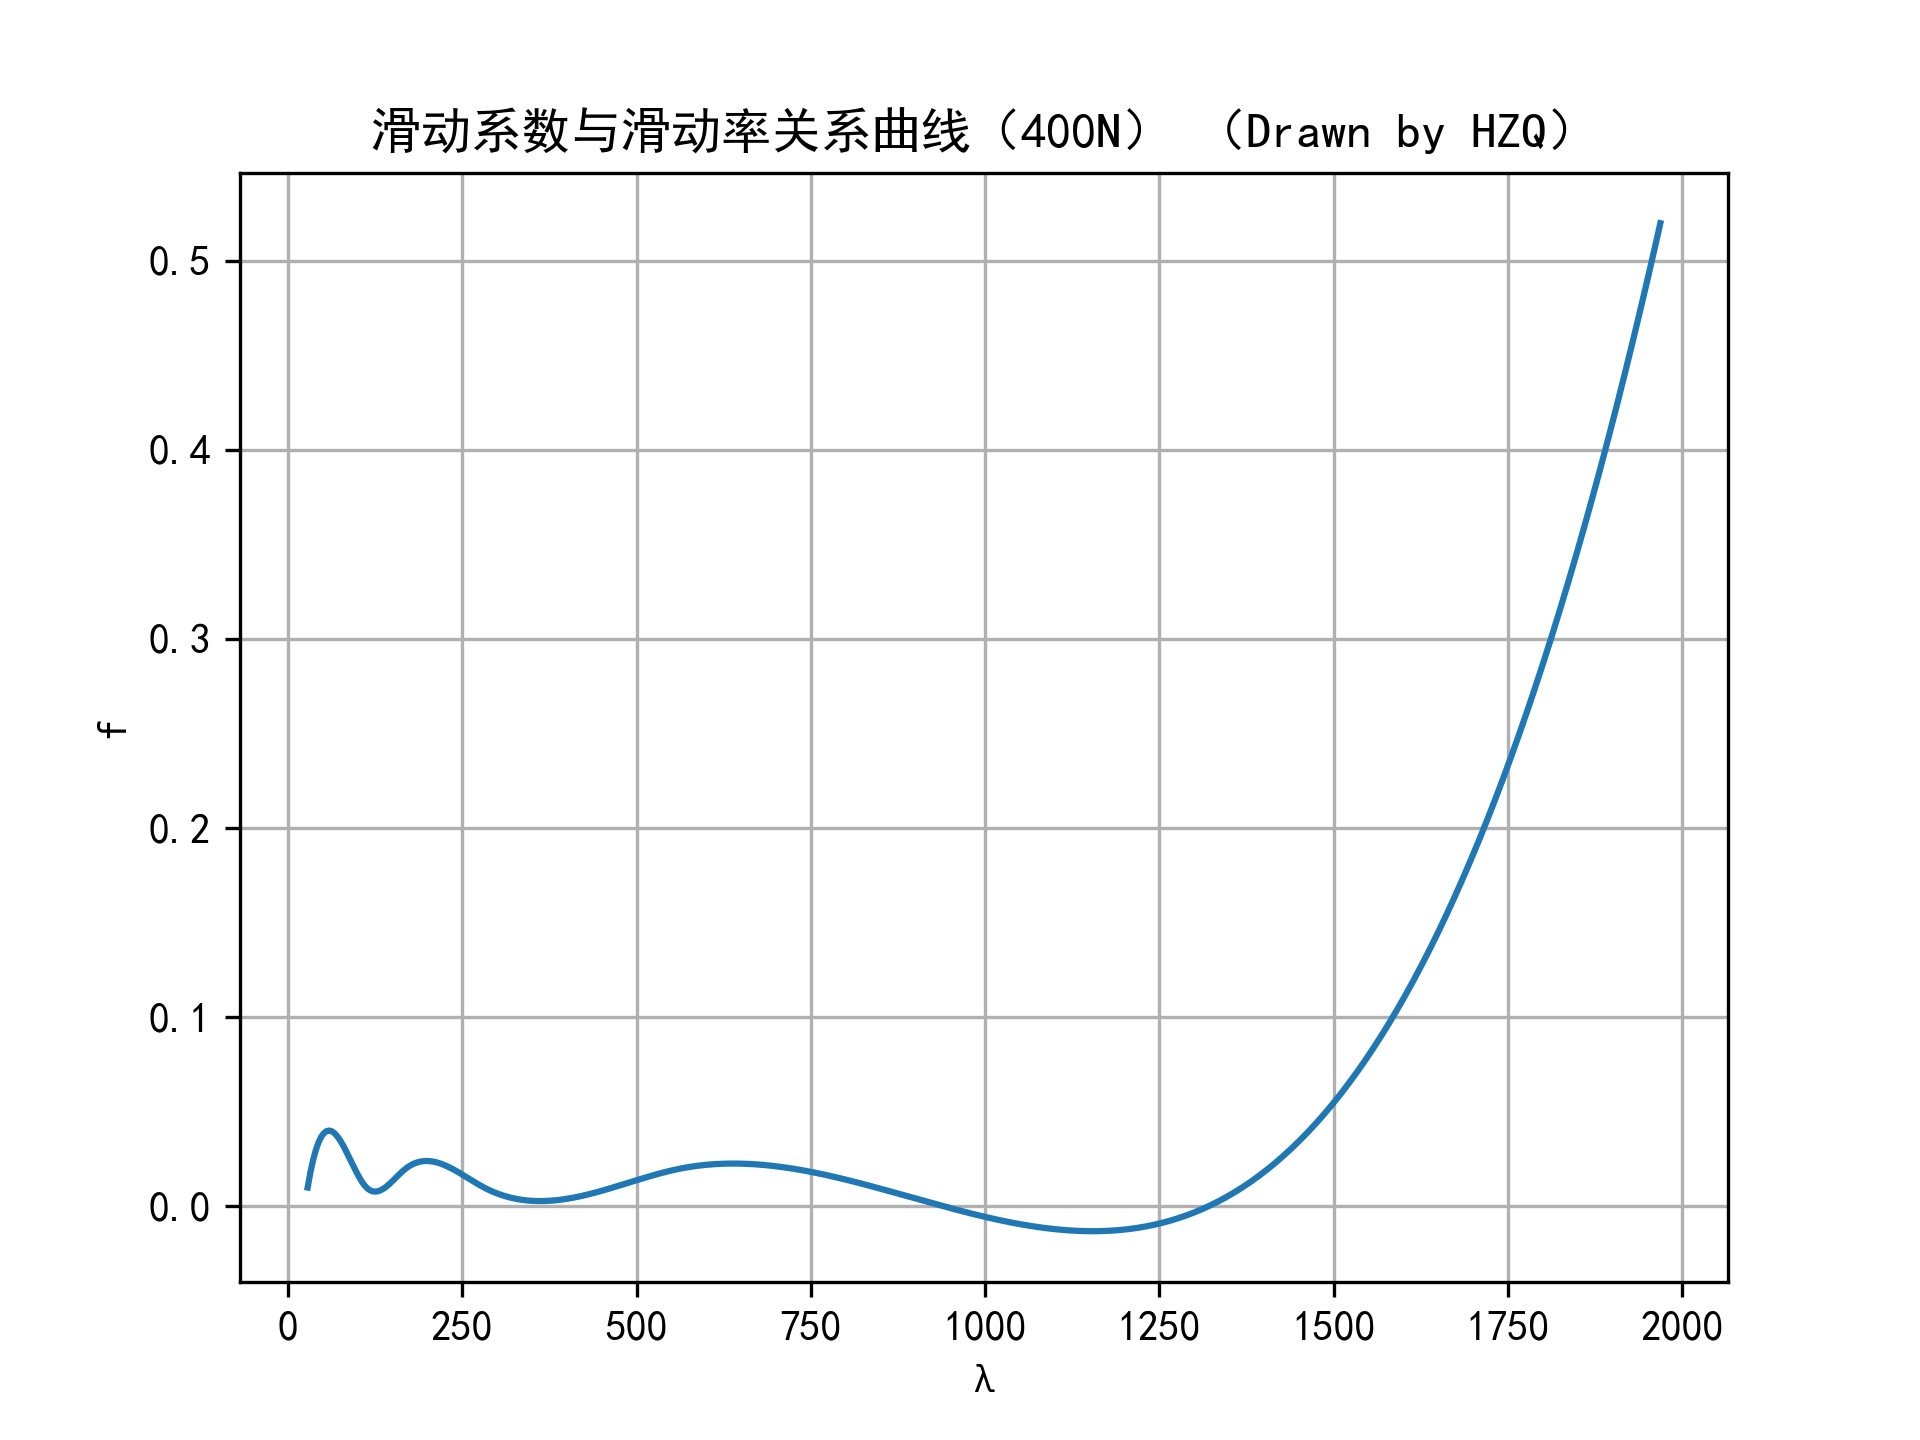
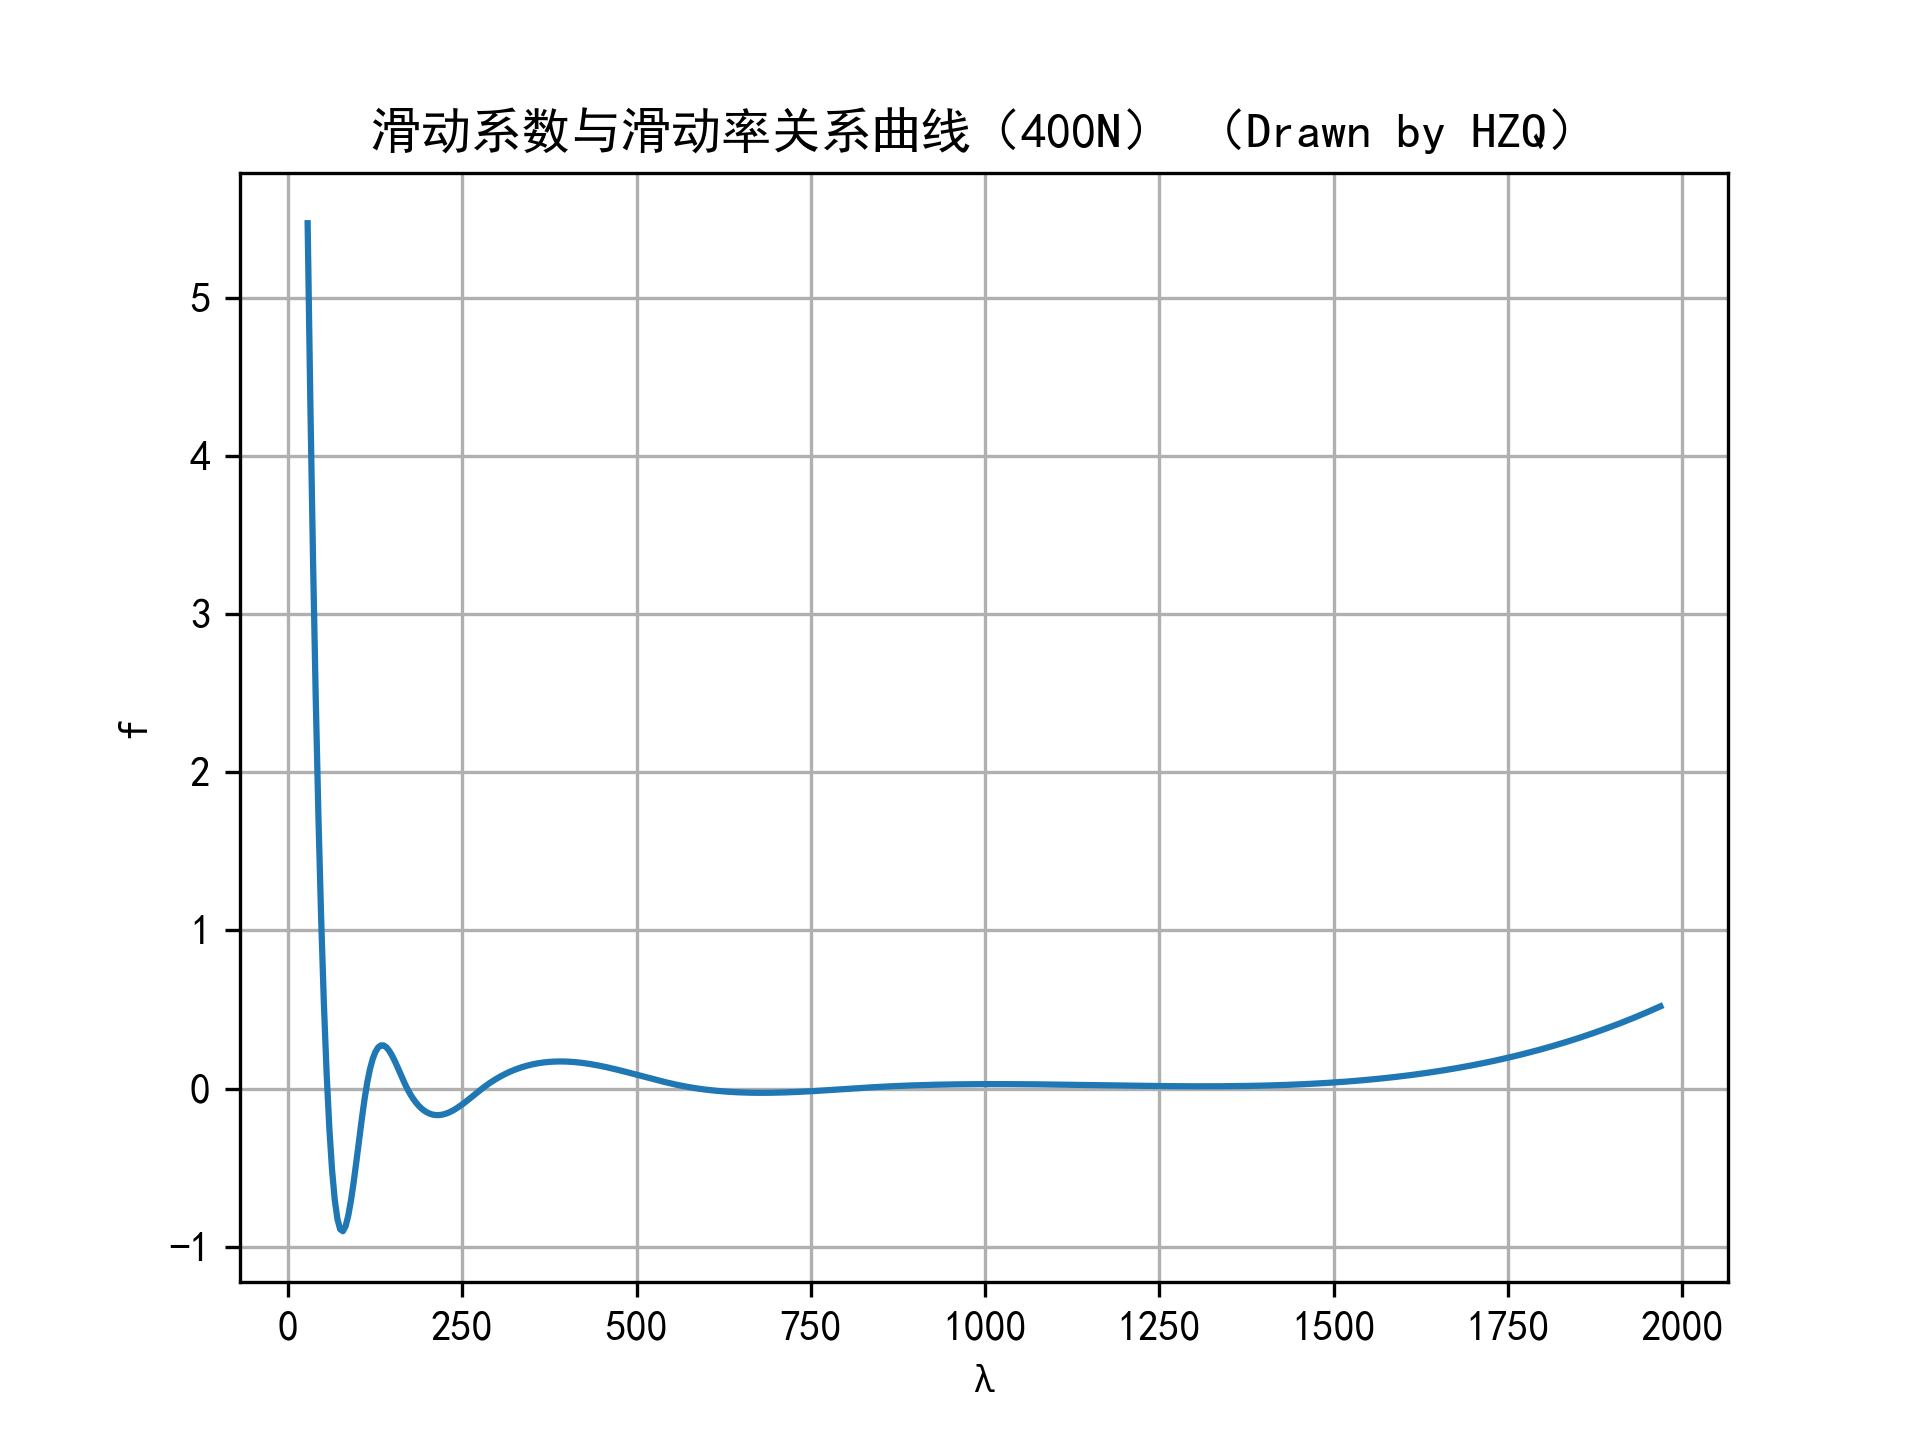
4th save

diff --git a/plain_bearing_1.py b/plain_bearing_1.py
@@ -14,7 +14,7 @@ B = 125
 f1 = np.array([1.24,0.01,0.03,0.02,0.01,0.02,0.01,0.01,5.76])
 n1 = np.array([350, 250, 150, 100, 50, 30, 20, 10, 5])
 
-f2 = np.array([0.52,0.02,0.01,0.02,0.01,0.02,0.01,0.04,0.01])
+f2 = np.array([0.52,0.02,0.01,0.02,0.01,0.02,0.01,0.01,5.47])
 n2 = np.array([350, 250, 150, 100, 50, 30, 20, 10, 5])
 
 # f3 = np.array([0.02,0.01,0.02,0.01])
@@ -23,10 +23,10 @@ n2 = np.array([350, 250, 150, 100, 50, 30, 20, 10, 5])
 # f4 = np.array([0.01,0.03,0.02,0.01])
 # n4 = np.array([250, 150, 100, 50])
 
-f = np.flip(f1)
-n = np.flip(n1)
+f = np.flip(f2)
+n = np.flip(n2)
 
-p = W1 / (d * B)
+p = W2 / (d * B)
 λ = n * η / p
 
 x = λ
@@ -41,7 +41,7 @@ print(y)
 plt.plot(X_, Y_, linestyle='-')
 plt.xlabel('λ')
 plt.ylabel('f')
-plt.title('滑动系数与滑动率关系曲线（600N） （Drawn by HZQ）')
+plt.title('滑动系数与滑动率关系曲线（400N） （Drawn by HZQ）')
 plt.grid(True)
-# plt.savefig(r"output\\plain_bearing_f_600N.png", dpi=300)
+plt.savefig(r"output\\plain_bearing_f_400N.png", dpi=300)
 plt.show()
